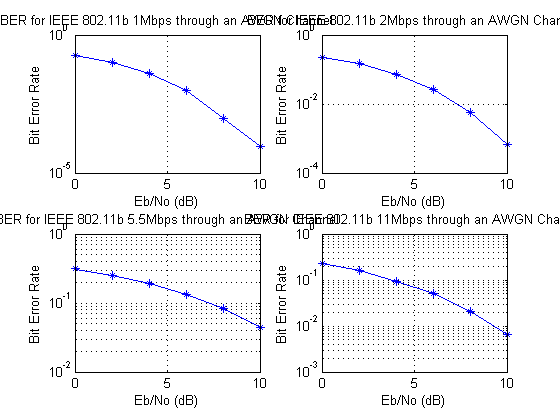
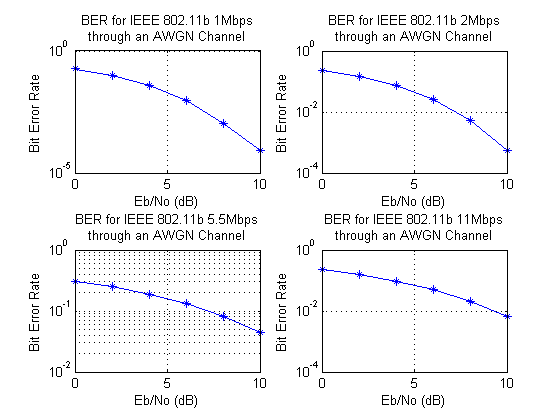
published scripts

diff --git a/html/IEEE80211b_rates_withfuncs.html b/html/IEEE80211b_rates_withfuncs.html
@@ -6,7 +6,7 @@
    <!--
 This HTML was auto-generated from MATLAB code.
 To make changes, update the MATLAB code and republish this document.
-      --><title>IEEE80211b_rates</title><meta name="generator" content="MATLAB 7.13"><link rel="schema.DC" href="http://purl.org/dc/elements/1.1/"><meta name="DC.date" content="2014-02-20"><meta name="DC.source" content="IEEE80211b_rates.m"><style type="text/css">
+      --><title>IEEE80211b_rates</title><meta name="generator" content="MATLAB 7.13"><link rel="schema.DC" href="http://purl.org/dc/elements/1.1/"><meta name="DC.date" content="2014-02-21"><meta name="DC.source" content="IEEE80211b_rates.m"><style type="text/css">
 
 body {
   background-color: white;
@@ -119,8 +119,8 @@ calcSnr = @(rate,EbNo) EbNo +10*log10(BitsPerSymbols(rate))<span class="keyword"
 </pre><h2>Plot BER Results<a name="5"></a></h2><pre class="codeinput">figure(<span class="string">'Name'</span>,<span class="string">'BER vs. EbNo'</span>);
 <span class="keyword">for</span> rate=1:4
     subplot(2,2,rate);semilogy(EbNo,BER(:,rate),<span class="string">'*-'</span>);grid <span class="string">on</span>;
-    title_str = [<span class="string">'BER for IEEE 802.11b '</span> num2str(DataRates(rate))<span class="keyword">...</span>
-                 <span class="string">'Mbps through an AWGN Channel'</span>];
+    title_str = {[<span class="string">'BER for IEEE 802.11b '</span> num2str(DataRates(rate))<span class="keyword">...</span>
+                 <span class="string">'Mbps'</span>] <span class="string">'through an AWGN Channel'</span>};
     title(title_str); xlabel(<span class="string">'Eb/No (dB)'</span>); ylabel(<span class="string">'Bit Error Rate'</span>);
 <span class="keyword">end</span>
 </pre><img vspace="5" hspace="5" src="IEEE80211b_rates_01.png" alt=""> <p class="footer"><br>
@@ -191,8 +191,8 @@ end
 figure('Name','BER vs. EbNo');
 for rate=1:4
     subplot(2,2,rate);semilogy(EbNo,BER(:,rate),'*-');grid on; 
-    title_str = ['BER for IEEE 802.11b ' num2str(DataRates(rate))...
-                 'Mbps through an AWGN Channel']; 
+    title_str = {['BER for IEEE 802.11b ' num2str(DataRates(rate))...
+                 'Mbps'] 'through an AWGN Channel'}; 
     title(title_str); xlabel('Eb/No (dB)'); ylabel('Bit Error Rate');
 end
 
@@ -208,7 +208,7 @@ end
    <!--
 This HTML was auto-generated from MATLAB code.
 To make changes, update the MATLAB code and republish this document.
-      --><title>CCKdemod</title><meta name="generator" content="MATLAB 7.13"><link rel="schema.DC" href="http://purl.org/dc/elements/1.1/"><meta name="DC.date" content="2014-02-20"><meta name="DC.source" content="CCKdemod.m"><style type="text/css">
+      --><title>CCKdemod</title><meta name="generator" content="MATLAB 7.13"><link rel="schema.DC" href="http://purl.org/dc/elements/1.1/"><meta name="DC.date" content="2014-02-21"><meta name="DC.source" content="CCKdemod.m"><style type="text/css">
 
 body {
   background-color: white;
@@ -356,7 +356,7 @@ RxBits = reshape(de2bi(k, bitspersymbol, <span class="string">'left-msb'</span>)
    <!--
 This HTML was auto-generated from MATLAB code.
 To make changes, update the MATLAB code and republish this document.
-      --><title>RxFilter</title><meta name="generator" content="MATLAB 7.13"><link rel="schema.DC" href="http://purl.org/dc/elements/1.1/"><meta name="DC.date" content="2014-02-20"><meta name="DC.source" content="RxFilter.m"><style type="text/css">
+      --><title>RxFilter</title><meta name="generator" content="MATLAB 7.13"><link rel="schema.DC" href="http://purl.org/dc/elements/1.1/"><meta name="DC.date" content="2014-02-21"><meta name="DC.source" content="RxFilter.m"><style type="text/css">
 
 body {
   background-color: white;
@@ -465,7 +465,7 @@ chips=[zeros(AlignmentChipDelay,1);chips(1:end-AlignmentChipDelay)];
    <!--
 This HTML was auto-generated from MATLAB code.
 To make changes, update the MATLAB code and republish this document.
-      --><title>TxFilter</title><meta name="generator" content="MATLAB 7.13"><link rel="schema.DC" href="http://purl.org/dc/elements/1.1/"><meta name="DC.date" content="2014-02-20"><meta name="DC.source" content="TxFilter.m"><style type="text/css">
+      --><title>TxFilter</title><meta name="generator" content="MATLAB 7.13"><link rel="schema.DC" href="http://purl.org/dc/elements/1.1/"><meta name="DC.date" content="2014-02-21"><meta name="DC.source" content="TxFilter.m"><style type="text/css">
 
 body {
   background-color: white;
@@ -576,7 +576,7 @@ FilterDelayInChips = FilterDelayInSamples/SamplesPerChip;
    <!--
 This HTML was auto-generated from MATLAB code.
 To make changes, update the MATLAB code and republish this document.
-      --><title>barkerdemod</title><meta name="generator" content="MATLAB 7.13"><link rel="schema.DC" href="http://purl.org/dc/elements/1.1/"><meta name="DC.date" content="2014-02-20"><meta name="DC.source" content="barkerdemod.m"><style type="text/css">
+      --><title>barkerdemod</title><meta name="generator" content="MATLAB 7.13"><link rel="schema.DC" href="http://purl.org/dc/elements/1.1/"><meta name="DC.date" content="2014-02-21"><meta name="DC.source" content="barkerdemod.m"><style type="text/css">
 
 body {
   background-color: white;
@@ -684,7 +684,7 @@ data = step(DPSK_Demod,symbols);
    <!--
 This HTML was auto-generated from MATLAB code.
 To make changes, update the MATLAB code and republish this document.
-      --><title>barkermod</title><meta name="generator" content="MATLAB 7.13"><link rel="schema.DC" href="http://purl.org/dc/elements/1.1/"><meta name="DC.date" content="2014-02-20"><meta name="DC.source" content="barkermod.m"><style type="text/css">
+      --><title>barkermod</title><meta name="generator" content="MATLAB 7.13"><link rel="schema.DC" href="http://purl.org/dc/elements/1.1/"><meta name="DC.date" content="2014-02-21"><meta name="DC.source" content="barkermod.m"><style type="text/css">
 
 body {
   background-color: white;
@@ -790,7 +790,7 @@ chips = reshape(Barker*symbols.',[],1);
    <!--
 This HTML was auto-generated from MATLAB code.
 To make changes, update the MATLAB code and republish this document.
-      --><title>cckmod</title><meta name="generator" content="MATLAB 7.13"><link rel="schema.DC" href="http://purl.org/dc/elements/1.1/"><meta name="DC.date" content="2014-02-20"><meta name="DC.source" content="cckmod.m"><style type="text/css">
+      --><title>cckmod</title><meta name="generator" content="MATLAB 7.13"><link rel="schema.DC" href="http://purl.org/dc/elements/1.1/"><meta name="DC.date" content="2014-02-21"><meta name="DC.source" content="cckmod.m"><style type="text/css">
 
 body {
   background-color: white;

diff --git a/IEEE80211b_rates.m b/IEEE80211b_rates.m
@@ -63,8 +63,8 @@ end
 figure('Name','BER vs. EbNo');
 for rate=1:4
     subplot(2,2,rate);semilogy(EbNo,BER(:,rate),'*-');grid on; 
-    title_str = ['BER for IEEE 802.11b ' num2str(DataRates(rate))...
-                 'Mbps through an AWGN Channel']; 
+    title_str = {['BER for IEEE 802.11b ' num2str(DataRates(rate))...
+                 'Mbps'] 'through an AWGN Channel'}; 
     title(title_str); xlabel('Eb/No (dB)'); ylabel('Bit Error Rate');
 end
 
